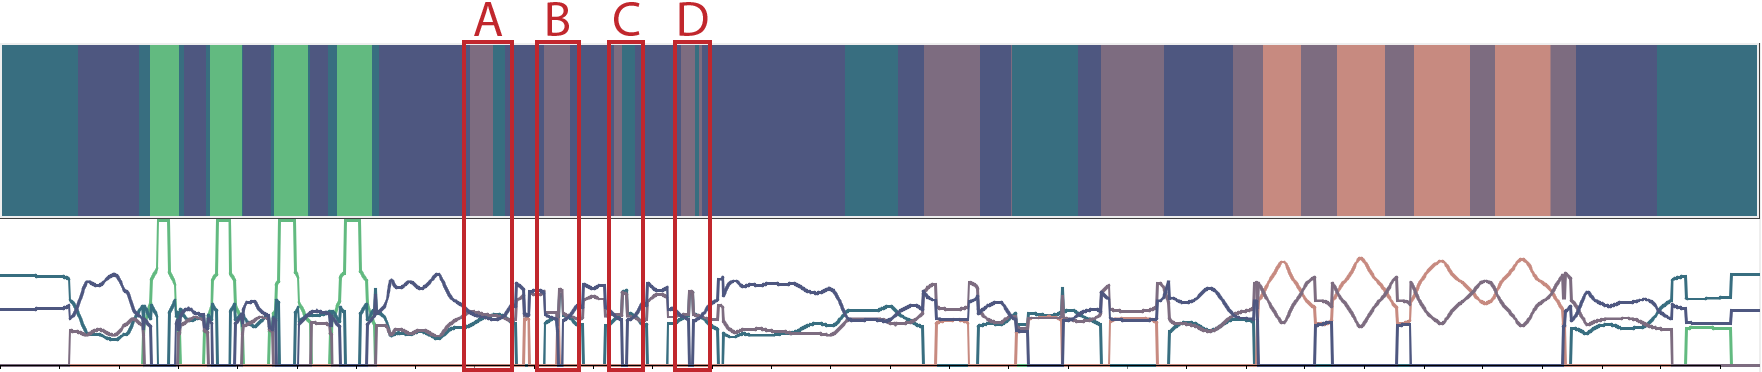
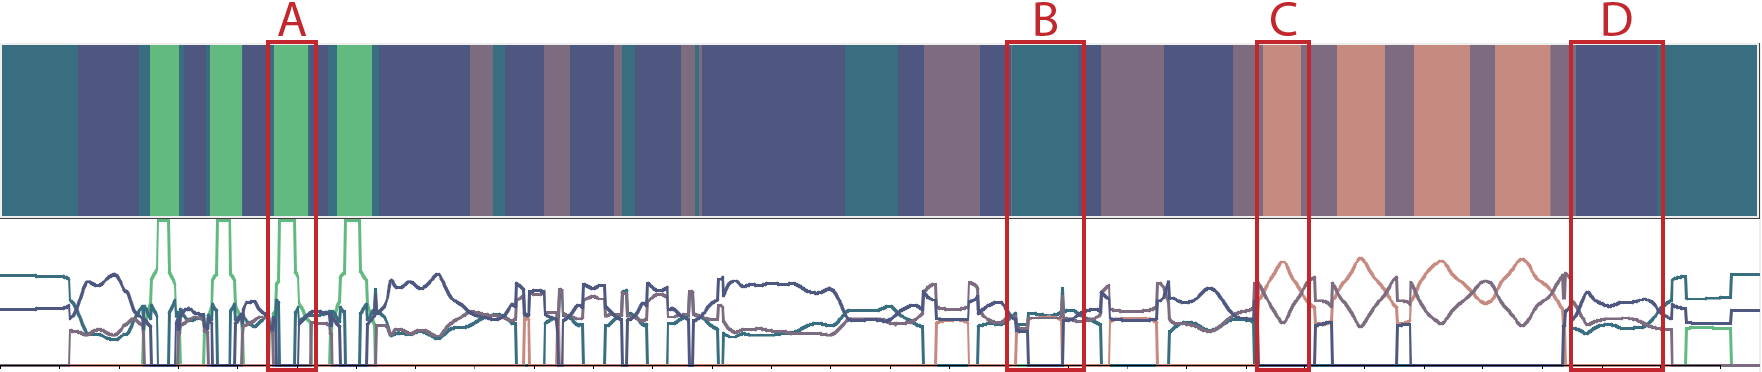
linechart question refinement

diff --git a/survey/test.html b/survey/test.html
@@ -9,7 +9,7 @@
 <script type="text/javascript">
 Survey.Survey.cssType = "bootstrap";
 
-var surveyJSON = {pages:[{name:"intro_01",elements:[{type:"html",name:"question4",html:"<h4>Welcome to the Survey of Visualizing Uncertainty</h4>\n\n<p>\nThe evaluation is split up into three chapters, with two sessions measuring your performance, and ending with a questionnaire to tell us your preferences on specific visualization designs.\n</p>\n<p>\nThe two performance evaluations will test different visualizations to support you with:\n<ul>\n  <li>Finding sources of uncertainty.</li>\n  <li>Selecting the best result when uncertainty is present in the data.</li>\n</ul>\n</p>\n\n<h4>What does this mean?</h4>\n<p>Sometimes, data is affected by uncertainty. Showing this uncertainty to the end user (you!) allows them to assess if the results can be trusted.\n</p>\n<img width='800px' src='https://christianbors.github.io/images/one_result.png' />\n<p>This yields a one-dimensional time series of segments.\nThe time series is broken down into logical segments by the algorithms, which can be analyzed by the user more easily.</p>\n<img width='800px' src='https://christianbors.github.io/images/ts_seg_movements.png' />\n<p>\nThis particular time series can be represented by a stick figure, with color representing the different segments.\nHowever, the segments are assigned labels only with a certain probability, so there is uncertainty in the processing.\n</p>\n<img width='800px' src='https://christianbors.github.io/images/ts_segmentations.png' />\n<!-- <img width='200px' src='https://christianbors.github.io/images/labels.png' /> -->\n<p>Usually multiple alternative segmentation results are computed which contain different degrees of uncertainty.\n</p>\n<h4>Finding sources of uncertainty</h4>\n</p>\n<img width='800px' src='https://christianbors.github.io/images/probabilities.png' />\n<p>\nWe can visualize these probabilities, as shown in this view showing probabilities of different segment labels over time.\nThe two frames (red and blue) show the purple label as the most likely label at these two points in time, but with different likelihood.\nThe blue frame shows a less significant result, implying that this segment is less certain.\n</p>\n\n<!-- <h4>Selecting the best result when uncertainty is present in the data</h4>\n<p>Finding an optimal result depends on your analysis task. If you want the segmentation algorithm to detect a certain segment more accurately, high uncertainty in other parts of the data might not be interesting to you. So always consider what the goal of your analysis is!</p> -->\n<img width='800px' src='https://christianbors.github.io/images/probabilities_comparison.png' />\n<p>E.g., if you want to choose an segmentation result with a high probability (and low uncertainty), Result A is preferred over Result B, because there is a clear winner of labels with high probability.</p>"}],title:"Introduction"},{name:"intro_line_plot",elements:[{type:"html",name:"question20",html:"<h4>Answering the Upcoming Questions</h4>\n<p>\nThe following visualizations are based on the same data. Please be aware of the introduction when answering the questions.\nAnswer the questions as accurately as possible, there is no time limit. So it is not necessary to rush.\n</p>\n<img width='800px' src='https://christianbors.github.io/images/probabilities-certainty.png' />\n<p>\nIt is not easy to decide between two results. Long segments do not always result in a very accurate segmentation.\nThe most certain segments are the ones that have high probability over the whole segment (see blue rectangle in Result A above), and not have intermittent changes in segment probabilities (see orange rectangle).\n</p>\n<p>In the following we will show you different visualizations, there will be a short introduction into how these visualizations convey uncertainty, including an example that shows how you should interpret it.</p>"},{type:"html",name:"question21",html:"<h4>Visualizing Uncertainty</h4>\n<p>\nThis visualization shows result certainty in the separate line chart view:\n<ul>\n<li>A high value in the line chart corresponds to high certainty of the segment</li>\n</ul>\n</p>\n<img width='800px' src='https://christianbors.github.io/images/linechart/linechart_view_raw.png' />\n<p>The figure shows an example result visualized with uncertainty represented in the line chart. The result uncertainties indicate the confidence in the segment. You can inspect segments closely and find out how certain the result is matched.</p>"}],title:"Chapter Introduction - Visualizing Uncertainty"},{name:"line_plot_q1",elements:[{type:"radiogroup",name:"question22",title:"Out of the highlighted (red frame) segments, which represents the most certain?",correctAnswer:["2"],choices:[{value:"1",text:"Frame A"},{value:"2",text:"Frame B"},{value:"3",text:"Frame C"},{value:"4",text:"Frame D"}],otherText:"Frame D"},{type:"html",name:"question23",html:"\n<img width='100%' src='https://christianbors.github.io/images/linechart/linechart_view_q1.png' />"}]},{name:"line_plot_q2",elements:[{type:"matrix",name:"question35",title:"Please sort the following highlighted Segments from Most Certain to Least Certain",correctAnswer:{S1:"1",S2:"4",S3:"3",S4:"2"},columns:[{value:"1",text:"1. (Most Certain)"},{value:"2",text:"2."},{value:"3",text:"3."},{value:"4",text:"4. (Least Certain)"}],rows:[{value:"S1",text:"Segment A"},{value:"S2",text:"Segment B"},{value:"S3",text:"Segment C"},{value:"S4",text:"Segment D"}]},{type:"html",name:"question25",html:"\n<img width='100%' src='https://christianbors.github.io/images/linechart/linechart_view_q2.png' />"}]},{name:"intro_gradient",elements:[{type:"html",name:"question15",html:"<h4>Answering the Upcoming Questions</h4>\n<p>\nThe following visualizations are based on the same data. Please be aware of the introduction when answering the questions.\nAnswer the questions as accurately as possible, there is no time limit. So it is not necessary to rush.\n</p>\n<img width='800px' src='https://christianbors.github.io/images/probabilities-certainty.png' />\n<p>\nIt is not easy to decide between two results. Long segments do not always result in a very accurate segmentation.\nThe most certain segments are the ones that have high probability over the whole segment (see blue rectangle in Result A above), and not have intermittent changes in segment probabilities (see orange rectangle).\n</p>\n<p>In the following we will show you different visualizations, there will be a short introduction into how these visualizations convey uncertainty, including an example that shows how you should interpret it.</p>"},{type:"html",name:"question14",html:"<h4>Visualizing Uncertainty with Transparency</h4>\n<p>\nThis first visualization shows uncertainty as transparency:\n<ul>\n<li>If there is less uncertainty, the segment/label becomes more visible. </li>\n<li>If there is high uncertainty in the data, the segment becomes more transparent. </li>\n</ul>\n</p>\n<img width='800px' src='https://christianbors.github.io/images/gradient_raw.png' />\n<p>The figure shows an example result visualized with uncertainty shown as transparency. What can be seen here is that transitions between the labels are very uncertain. The gradient length between labels indicates that it is uncertain where the label actually starts.</p>"}],title:"Chapter Introduction - Visualizing Uncertainty with Transparency"},{name:"gradient_q1",elements:[{type:"radiogroup",name:"question2",title:"Out of the highlighted purple (red frame) segments, which is the most certain?",correctAnswer:["3"],choices:[{value:"1",text:"Frame A"},{value:"2",text:"Frame B"},{value:"3",text:"Frame C"},{value:"4",text:"Frame D"}],otherText:"Frame D"},{type:"html",name:"question3",html:"\n<img width='100%' src='https://christianbors.github.io/images/gradient_annotated.png' />"}]},{name:"gradient_q2",elements:[{type:"radiogroup",name:"question5",title:"Out of the highlighted section, which one has the least uncertainty?",correctAnswer:["item1"],choices:[{value:"item1",text:"Section A"},{value:"item2",text:"Section B"},{value:"item3",text:"Section C"}]},{type:"html",name:"question9",html:"<img width='100%' src='https://christianbors.github.io/images/list_slider/ul_gradient.png' />"}]},{name:"gradient_q2_v2",elements:[{type:"matrix",name:"question27",title:"Please sort the following highlighted Segments from Most Certain to Least Certain",correctAnswer:{S1:"1",S2:"3",S3:"2",S4:"2"},columns:[{value:"1",text:"1. (Most Certain)"},{value:"2",text:"2."},{value:"3",text:"3. (Least Certain)"}],rows:[{value:"S1",text:"Segment A"},{value:"S2",text:"Segment B"},{value:"S3",text:"Segment C"}]},{type:"html",name:"question26",html:"<img width='100%' src='https://christianbors.github.io/images/list_slider/ul_gradient.png' />"}]},{name:"gradient_q3",elements:[{type:"radiogroup",name:"question10",title:"Out of the highlighted results, which one shows the least uncertainty?",correctAnswer:["item1"],choices:[{value:"item1",text:"Frame A"},{value:"item2",text:"Frame B"},{value:"item3",text:"Frame C"}]},{type:"html",name:"question11",html:"<img width='100%' src='https://christianbors.github.io/images/list_slider_result/uls_gradient.png' />"}]},{name:"intro_disambiguation1",elements:[{type:"html",name:"question16",html:"<h4>Recap - Answering the Upcoming Questions</h4>\n<p>\nThe following visualizations are based on the same data. Please be aware of the introduction when answering the questions.\nAnswer the questions as accurately as possible, there is no time limit. So it is not necessary to rush.\n</p>\n<img width='800px' src='https://christianbors.github.io/images/probabilities-certainty.png' />\n<p>\nIt is not easy to decide between two results. Long segments do not always result in a very accurate segmentation.\nThe most certain segments are the ones that have high probability over the whole segment (see blue rectangle in Result A above), and not have intermittent changes in segment probabilities (see orange rectangle).\n</p>\n<p>In the following we will show you different visualizations, there will be a short introduction into how these visualizations convey uncertainty, including an example that shows how you should interpret it.</p>"},{type:"html",name:"question17",html:"<h4>Visualizing Uncertainty With Grey Value Thresholds</h4>\n<p>\nThis first visualization shows uncertainty as grey values:\n<ul>\n<li>If the certainty of a time stamp is above the selected threshold, the segment's label color is shown.</li>\n<li>If the certainty of a time stamp is below the selected threshold, the segment is colored grey.</li>\n</ul>\n</p>\n<img width='800px' src='https://christianbors.github.io/images/disambiguation_raw.png' />\n<p>\nThe figure shows an example result visualized with uncertainty shown as grey segments. Later you can interactively change the threshold (adjusting a slider from 0 to 100 percent certainty) to see the thresholds of certainties for the different segments.\nThis allows you to see only segments that have been labeled with sufficient certainty.\n</p>"}],title:"Visualization Introduction - Uncertainty Gradient and Disambiguation"},{name:"disambiguation_q1",elements:[{type:"radiogroup",name:"question6",title:"Out of the highlighted (red frame) segments, which is the most certain?",correctAnswer:["item1"],choices:[{value:"item1",text:"Frame A"},{value:"item2",text:"Frame B"},{value:"item3",text:"Frame C"}]},{type:"html",name:"question1",html:"<p>You can adjust the uncertainty threshold level with the slider from 0.0 to 1.0</p>\n<iframe width=\"100%\" height=\"600\" id=\"block__iframe\" scrolling=\"no\" data-reactid=\".0.0.1.0.0.1\" sandbox=\"allow-scripts allow-top-navigation allow-popups allow-same-origin\" src=\"https://christianbors.github.io/slider_segment_selection.html\" allowfullscreen=\"allowfullscreen\" allowpaymentrequest frameborder=\"0\"></iframe>\n<!-- <iframe width=\"100%\" height=\"600\" src=\"//jsfiddle.net/qxnku937/1/show\" allowfullscreen=\"allowfullscreen\" allowpaymentrequest frameborder=\"0\"></iframe> -->"}]},{name:"disambiguation_q2",elements:[{type:"radiogroup",name:"question7",title:"Out of the highlighted (red frame) segments, which is the most certain?",correctAnswer:["item2"],choices:[{value:"item1",text:"Frame A"},{value:"item2",text:"Frame B"},{value:"item3",text:"Frame C"}]},{type:"html",name:"question8",html:"<p>You can adjust the uncertainty threshold level with the slider from 0.0 to 1.0</p>\n<iframe width=\"100%\" height=\"600\" id=\"block__iframe\" scrolling=\"no\" data-reactid=\".0.0.1.0.0.1\" sandbox=\"allow-scripts allow-top-navigation allow-popups allow-same-origin\" src=\"https://christianbors.github.io/slider_list_section_selection.html\" allowfullscreen=\"allowfullscreen\" allowpaymentrequest frameborder=\"0\"></iframe>\n<!-- <iframe width=\"100%\" height=\"600\" src=\"//jsfiddle.net/qxnku937/1/show\" allowfullscreen=\"allowfullscreen\" allowpaymentrequest frameborder=\"0\"></iframe> -->"}]},{name:"disambiguation_q3",elements:[{type:"radiogroup",name:"question12",title:"Out of the highlighted results, which one shows the least uncertainty?",correctAnswer:["item2"],choices:[{value:"item1",text:"Frame A"},{value:"item2",text:"Frame B"},{value:"item3",text:"Frame C"}]},{type:"html",name:"question13",html:"<p>You can adjust the uncertainty threshold level with the slider from 0.0 to 1.0</p>\n<iframe width=\"100%\" height=\"600\" id=\"block__iframe\" scrolling=\"no\" data-reactid=\".0.0.1.0.0.1\" sandbox=\"allow-scripts allow-top-navigation allow-popups allow-same-origin\" src=\"https://christianbors.github.io/slider_list_result_selection.html\" allowfullscreen=\"allowfullscreen\" allowpaymentrequest frameborder=\"0\"></iframe>\n<!-- <iframe width=\"100%\" height=\"600\" src=\"//jsfiddle.net/qxnku937/1/show\" allowfullscreen=\"allowfullscreen\" allowpaymentrequest frameborder=\"0\"></iframe> -->"}]},{name:"intro_value_uncertainty",elements:[{type:"html",name:"question18",html:"<h4>Recap - Answering the Upcoming Questions</h4>\n<p>\nThe following visualizations are based on the same data. Please be aware of the introduction when answering the questions.\nAnswer the questions as accurately as possible, there is no time limit. So it is not necessary to rush.\n</p>\n<img width='800px' src='https://christianbors.github.io/images/probabilities-certainty.png' />\n<p>\nIt is not easy to decide between two results. Long segments do not always result in a very accurate segment.\nThe most certain segments are the ones that have high probability over the whole segment (see blue rectangle in Result A above), and not have intermittent changes in segment probabilities (see orange rectangle).\n</p>\n<p>In the following we will show you different visualizations, there will be a short introduction into how these visualizations convey uncertainty, including an example that shows how you should interpret it.</p>"},{type:"html",name:"question19",html:"<h4>Visualizing Different Sources of Uncertainty</h4>\n<p>\nThe following visualization shows a second source of uncertainty. An additional visualization shows these other uncertainties. Your goal is to analyze if one uncertainty influences the other.\n</p>\n<img width='800px' src='https://christianbors.github.io/images/value_uncertainty/value_uncertainty_annotated.png' />\n<p>\nLooking at the new visualization you can see four lines, where two lines introduced uncertainty (VISSECTSamplingDataProcessor and VISSECTMovingAverageDataProcessor). You can see that the highlighted areas have more uncertainty influencing the result than the rest \n</p>"}],title:"Visualization Introduction - Uncertainty Gradient and Disambiguation"}],showProgressBar:"bottom",firstPageIsStarted:true}
+var surveyJSON = {pages:[{name:"intro_01",elements:[{type:"html",name:"question4",html:"<h4>Welcome to the Survey of Visualizing Uncertainty</h4>\n\n<p>\nThe evaluation is split up into three chapters, with two sessions measuring your performance, and ending with a questionnaire to tell us your preferences on specific visualization designs.\n</p>\n<p>\nThe two performance evaluations will test different visualizations to support you with:\n<ul>\n  <li>Finding sources of uncertainty.</li>\n  <li>Selecting the best result when uncertainty is present in the data.</li>\n</ul>\n</p>\n\n<h4>What does this mean?</h4>\n<p>Sometimes, data is affected by uncertainty. Showing this uncertainty to the end user (you!) allows them to assess if the results can be trusted.\n</p>\n<img width='800px' src='https://christianbors.github.io/images/one_result.png' />\n<p>This yields a one-dimensional time series of segments.\nThe time series is broken down into logical segments by the algorithms, which can be analyzed by the user more easily.</p>\n<img width='800px' src='https://christianbors.github.io/images/ts_seg_movements.png' />\n<p>\nThis particular time series can be represented by a stick figure, with color representing the different segments.\nHowever, the segments are assigned labels only with a certain probability, so there is uncertainty in the processing.\n</p>\n<img width='800px' src='https://christianbors.github.io/images/ts_segmentations.png' />\n<!-- <img width='200px' src='https://christianbors.github.io/images/labels.png' /> -->\n<p>Usually multiple alternative segmentation results are computed which contain different degrees of uncertainty.\n</p>\n<h4>Finding sources of uncertainty</h4>\n</p>\n<img width='800px' src='https://christianbors.github.io/images/probabilities.png' />\n<p>\nWe can visualize these probabilities, as shown in this view showing probabilities of different segment labels over time.\nThe two frames (red and blue) show the purple label as the most likely label at these two points in time, but with different likelihood.\nThe blue frame shows a less significant result, implying that this segment is less certain.\n</p>\n\n<!-- <h4>Selecting the best result when uncertainty is present in the data</h4>\n<p>Finding an optimal result depends on your analysis task. If you want the segmentation algorithm to detect a certain segment more accurately, high uncertainty in other parts of the data might not be interesting to you. So always consider what the goal of your analysis is!</p> -->\n<img width='800px' src='https://christianbors.github.io/images/probabilities_comparison.png' />\n<p>E.g., if you want to choose an segmentation result with a high probability (and low uncertainty), Result A is preferred over Result B, because there is a clear winner of labels with high probability.</p>"}],title:"Introduction"},{name:"intro_line_plot",elements:[{type:"html",name:"question20",html:"<h4>Answering the Upcoming Questions</h4>\n<p>\nThe following visualizations are based on the same data. Please be aware of the introduction when answering the questions.\nAnswer the questions as accurately as possible, there is no time limit. So it is not necessary to rush.\n</p>\n<img width='800px' src='https://christianbors.github.io/images/probabilities-certainty.png' />\n<p>\nIt is not easy to decide between two results. Long segments do not always result in a very accurate segmentation.\nThe most certain segments are the ones that have high probability over the whole segment (see blue rectangle in Result A above), and not have intermittent changes in segment probabilities (see orange rectangle).\n</p>\n<p>In the following we will show you different visualizations, there will be a short introduction into how these visualizations convey uncertainty, including an example that shows how you should interpret it.</p>"},{type:"html",name:"question21",html:"<h4>Visualizing Uncertainty</h4>\n<p>\nThis visualization shows result certainty in the separate line chart view:\n<ul>\n<li>A high value in the line chart corresponds to high certainty of the segment</li>\n</ul>\n</p>\n<img width='800px' src='https://christianbors.github.io/images/linechart/linechart_view_raw.png' />\n<p>The figure shows an example result visualized with uncertainty represented in the line chart. The result uncertainties indicate the confidence in the segment. You can inspect segments closely and find out how certain the result is matched.</p>"}],title:"Chapter Introduction - Visualizing Uncertainty"},{name:"line_plot_q1",elements:[{type:"radiogroup",name:"question22",title:"Out of the highlighted (red frame) segments, which represents the most certain?",correctAnswer:["2"],choices:[{value:"1",text:"Frame A"},{value:"2",text:"Frame B"},{value:"3",text:"Frame C"},{value:"4",text:"Frame D"}],otherText:"Frame D"},{type:"html",name:"question23",html:"\n<img width='100%' src='https://christianbors.github.io/images/linechart/linechart_view_q1.png' />"}]},{name:"line_plot_q2",elements:[{type:"matrix",name:"question24",title:"Please sort the following highlighted Segments from Most Certain to Least Certain",correctAnswer:{S1:"1",S2:"4",S3:"3",S4:"2"},columns:[{value:"1",text:"1. (Most Certain)"},{value:"2",text:"2."},{value:"3",text:"3."},{value:"4",text:"4. (Least Certain)"}],rows:[{value:"S1",text:"Segment A"},{value:"S2",text:"Segment B"},{value:"S3",text:"Segment C"},{value:"S4",text:"Segment D"}]},{type:"html",name:"question28",html:"\n<img width='100%' src='https://christianbors.github.io/images/linechart/linechart_view_q1.png' />"}]},{name:"line_plot_q3",elements:[{type:"radiogroup",name:"question29",title:"Out of the highlighted (red frame) segments, which represents the most certain?",correctAnswer:["2"],choices:[{value:"1",text:"Frame A"},{value:"2",text:"Frame B"},{value:"3",text:"Frame C"},{value:"4",text:"Frame D"}],otherText:"Frame D"},{type:"html",name:"question30",html:"\n<img width='100%' src='https://christianbors.github.io/images/linechart/linechart_view_q1.png' />"}]},{name:"line_plot_q4",elements:[{type:"matrix",name:"question35",title:"Please sort the following highlighted Segments from Most Certain to Least Certain",correctAnswer:{S1:"1",S2:"4",S3:"3",S4:"2"},columns:[{value:"1",text:"1. (Most Certain)"},{value:"2",text:"2."},{value:"3",text:"3."},{value:"4",text:"4. (Least Certain)"}],rows:[{value:"S1",text:"Segment A"},{value:"S2",text:"Segment B"},{value:"S3",text:"Segment C"},{value:"S4",text:"Segment D"}]},{type:"html",name:"question25",html:"\n<img width='100%' src='https://christianbors.github.io/images/linechart/linechart_view_q2.png' />"}]},{name:"intro_gradient",elements:[{type:"html",name:"question15",html:"<h4>Answering the Upcoming Questions</h4>\n<p>\nThe following visualizations are based on the same data. Please be aware of the introduction when answering the questions.\nAnswer the questions as accurately as possible, there is no time limit. So it is not necessary to rush.\n</p>\n<img width='800px' src='https://christianbors.github.io/images/probabilities-certainty.png' />\n<p>\nIt is not easy to decide between two results. Long segments do not always result in a very accurate segmentation.\nThe most certain segments are the ones that have high probability over the whole segment (see blue rectangle in Result A above), and not have intermittent changes in segment probabilities (see orange rectangle).\n</p>\n<p>In the following we will show you different visualizations, there will be a short introduction into how these visualizations convey uncertainty, including an example that shows how you should interpret it.</p>"},{type:"html",name:"question14",html:"<h4>Visualizing Uncertainty with Transparency</h4>\n<p>\nThis first visualization shows uncertainty as transparency:\n<ul>\n<li>If there is less uncertainty, the segment/label becomes more visible. </li>\n<li>If there is high uncertainty in the data, the segment becomes more transparent. </li>\n</ul>\n</p>\n<img width='800px' src='https://christianbors.github.io/images/gradient_raw.png' />\n<p>The figure shows an example result visualized with uncertainty shown as transparency. What can be seen here is that transitions between the labels are very uncertain. The gradient length between labels indicates that it is uncertain where the label actually starts.</p>"}],title:"Chapter Introduction - Visualizing Uncertainty with Transparency"},{name:"gradient_q1",elements:[{type:"radiogroup",name:"question2",title:"Out of the highlighted purple (red frame) segments, which is the most certain?",correctAnswer:["3"],choices:[{value:"1",text:"Frame A"},{value:"2",text:"Frame B"},{value:"3",text:"Frame C"},{value:"4",text:"Frame D"}],otherText:"Frame D"},{type:"html",name:"question3",html:"\n<img width='100%' src='https://christianbors.github.io/images/gradient_annotated.png' />"}]},{name:"gradient_q2",elements:[{type:"radiogroup",name:"question5",title:"Out of the highlighted section, which one has the least uncertainty?",correctAnswer:["item1"],choices:[{value:"item1",text:"Section A"},{value:"item2",text:"Section B"},{value:"item3",text:"Section C"}]},{type:"html",name:"question9",html:"<img width='100%' src='https://christianbors.github.io/images/list_slider/ul_gradient.png' />"}]},{name:"gradient_q2_v2",elements:[{type:"matrix",name:"question27",title:"Please sort the following highlighted Segments from Most Certain to Least Certain",correctAnswer:{S1:"1",S2:"3",S3:"2",S4:"2"},columns:[{value:"1",text:"1. (Most Certain)"},{value:"2",text:"2."},{value:"3",text:"3. (Least Certain)"}],rows:[{value:"S1",text:"Segment A"},{value:"S2",text:"Segment B"},{value:"S3",text:"Segment C"}]},{type:"html",name:"question26",html:"<img width='100%' src='https://christianbors.github.io/images/list_slider/ul_gradient.png' />"}]},{name:"gradient_q3",elements:[{type:"radiogroup",name:"question10",title:"Out of the highlighted results, which one shows the least uncertainty?",correctAnswer:["item1"],choices:[{value:"item1",text:"Frame A"},{value:"item2",text:"Frame B"},{value:"item3",text:"Frame C"}]},{type:"html",name:"question11",html:"<img width='100%' src='https://christianbors.github.io/images/list_slider_result/uls_gradient.png' />"}]},{name:"intro_disambiguation1",elements:[{type:"html",name:"question16",html:"<h4>Recap - Answering the Upcoming Questions</h4>\n<p>\nThe following visualizations are based on the same data. Please be aware of the introduction when answering the questions.\nAnswer the questions as accurately as possible, there is no time limit. So it is not necessary to rush.\n</p>\n<img width='800px' src='https://christianbors.github.io/images/probabilities-certainty.png' />\n<p>\nIt is not easy to decide between two results. Long segments do not always result in a very accurate segmentation.\nThe most certain segments are the ones that have high probability over the whole segment (see blue rectangle in Result A above), and not have intermittent changes in segment probabilities (see orange rectangle).\n</p>\n<p>In the following we will show you different visualizations, there will be a short introduction into how these visualizations convey uncertainty, including an example that shows how you should interpret it.</p>"},{type:"html",name:"question17",html:"<h4>Visualizing Uncertainty With Grey Value Thresholds</h4>\n<p>\nThis first visualization shows uncertainty as grey values:\n<ul>\n<li>If the certainty of a time stamp is above the selected threshold, the segment's label color is shown.</li>\n<li>If the certainty of a time stamp is below the selected threshold, the segment is colored grey.</li>\n</ul>\n</p>\n<img width='800px' src='https://christianbors.github.io/images/disambiguation_raw.png' />\n<p>\nThe figure shows an example result visualized with uncertainty shown as grey segments. Later you can interactively change the threshold (adjusting a slider from 0 to 100 percent certainty) to see the thresholds of certainties for the different segments.\nThis allows you to see only segments that have been labeled with sufficient certainty.\n</p>"}],title:"Visualization Introduction - Uncertainty Gradient and Disambiguation"},{name:"disambiguation_q1",elements:[{type:"radiogroup",name:"question6",title:"Out of the highlighted (red frame) segments, which is the most certain?",correctAnswer:["item1"],choices:[{value:"item1",text:"Frame A"},{value:"item2",text:"Frame B"},{value:"item3",text:"Frame C"}]},{type:"html",name:"question1",html:"<p>You can adjust the uncertainty threshold level with the slider from 0.0 to 1.0</p>\n<iframe width=\"100%\" height=\"600\" id=\"block__iframe\" scrolling=\"no\" data-reactid=\".0.0.1.0.0.1\" sandbox=\"allow-scripts allow-top-navigation allow-popups allow-same-origin\" src=\"https://christianbors.github.io/slider_segment_selection.html\" allowfullscreen=\"allowfullscreen\" allowpaymentrequest frameborder=\"0\"></iframe>\n<!-- <iframe width=\"100%\" height=\"600\" src=\"//jsfiddle.net/qxnku937/1/show\" allowfullscreen=\"allowfullscreen\" allowpaymentrequest frameborder=\"0\"></iframe> -->"}]},{name:"disambiguation_q2",elements:[{type:"radiogroup",name:"question7",title:"Out of the highlighted (red frame) segments, which is the most certain?",correctAnswer:["item2"],choices:[{value:"item1",text:"Frame A"},{value:"item2",text:"Frame B"},{value:"item3",text:"Frame C"}]},{type:"html",name:"question8",html:"<p>You can adjust the uncertainty threshold level with the slider from 0.0 to 1.0</p>\n<iframe width=\"100%\" height=\"600\" id=\"block__iframe\" scrolling=\"no\" data-reactid=\".0.0.1.0.0.1\" sandbox=\"allow-scripts allow-top-navigation allow-popups allow-same-origin\" src=\"https://christianbors.github.io/slider_list_section_selection.html\" allowfullscreen=\"allowfullscreen\" allowpaymentrequest frameborder=\"0\"></iframe>\n<!-- <iframe width=\"100%\" height=\"600\" src=\"//jsfiddle.net/qxnku937/1/show\" allowfullscreen=\"allowfullscreen\" allowpaymentrequest frameborder=\"0\"></iframe> -->"}]},{name:"disambiguation_q3",elements:[{type:"radiogroup",name:"question12",title:"Out of the highlighted results, which one shows the least uncertainty?",correctAnswer:["item2"],choices:[{value:"item1",text:"Frame A"},{value:"item2",text:"Frame B"},{value:"item3",text:"Frame C"}]},{type:"html",name:"question13",html:"<p>You can adjust the uncertainty threshold level with the slider from 0.0 to 1.0</p>\n<iframe width=\"100%\" height=\"600\" id=\"block__iframe\" scrolling=\"no\" data-reactid=\".0.0.1.0.0.1\" sandbox=\"allow-scripts allow-top-navigation allow-popups allow-same-origin\" src=\"https://christianbors.github.io/slider_list_result_selection.html\" allowfullscreen=\"allowfullscreen\" allowpaymentrequest frameborder=\"0\"></iframe>\n<!-- <iframe width=\"100%\" height=\"600\" src=\"//jsfiddle.net/qxnku937/1/show\" allowfullscreen=\"allowfullscreen\" allowpaymentrequest frameborder=\"0\"></iframe> -->"}]},{name:"intro_value_uncertainty",elements:[{type:"html",name:"question18",html:"<h4>Recap - Answering the Upcoming Questions</h4>\n<p>\nThe following visualizations are based on the same data. Please be aware of the introduction when answering the questions.\nAnswer the questions as accurately as possible, there is no time limit. So it is not necessary to rush.\n</p>\n<img width='800px' src='https://christianbors.github.io/images/probabilities-certainty.png' />\n<p>\nIt is not easy to decide between two results. Long segments do not always result in a very accurate segment.\nThe most certain segments are the ones that have high probability over the whole segment (see blue rectangle in Result A above), and not have intermittent changes in segment probabilities (see orange rectangle).\n</p>\n<p>In the following we will show you different visualizations, there will be a short introduction into how these visualizations convey uncertainty, including an example that shows how you should interpret it.</p>"},{type:"html",name:"question19",html:"<h4>Visualizing Different Sources of Uncertainty</h4>\n<p>\nThe following visualization shows a second source of uncertainty. An additional visualization shows these other uncertainties. Your goal is to analyze if one uncertainty influences the other.\n</p>\n<img width='800px' src='https://christianbors.github.io/images/value_uncertainty/value_uncertainty_annotated.png' />\n<p>\nLooking at the new visualization you can see four lines, where two lines introduced uncertainty (VISSECTSamplingDataProcessor and VISSECTMovingAverageDataProcessor). You can see that the highlighted areas have more uncertainty influencing the result than the rest \n</p>"}],title:"Visualization Introduction - Uncertainty Gradient and Disambiguation"}],showProgressBar:"bottom",firstPageIsStarted:true}
 
 function sendDataToServer(survey) {
     survey.sendResult('a7addf27-87cb-47e2-bda8-a07a37b0ca76');
